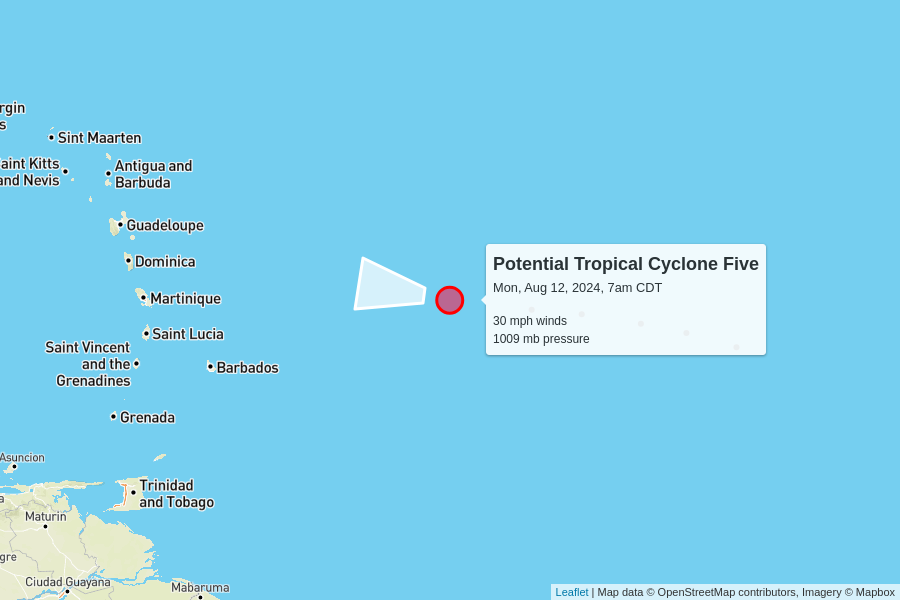
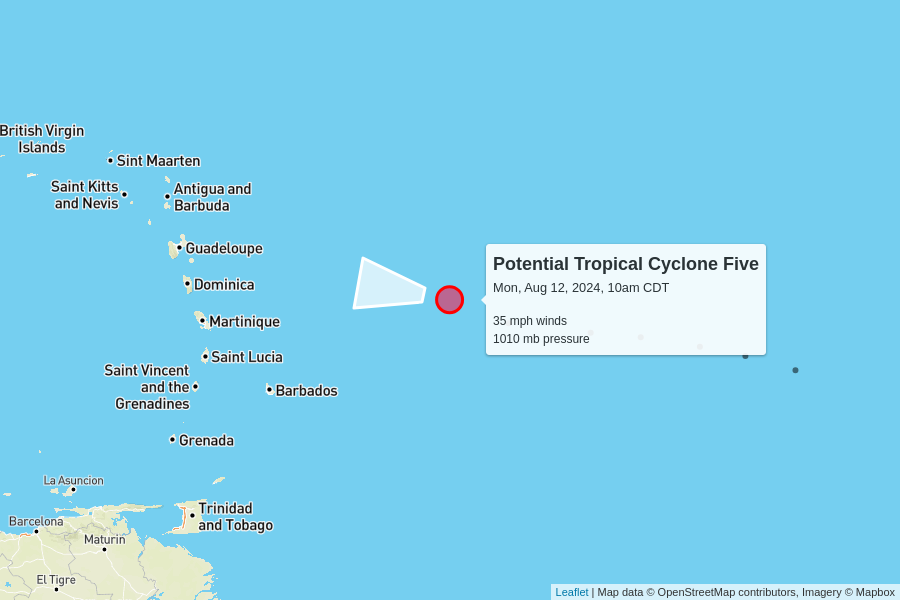
automatic update

diff --git a/docs/index.html b/docs/index.html
@@ -102,7 +102,7 @@
         <td colspan="6" class="storm category-0" >
           <h2>
             Potential Tropical Cyclone Five
-            <p class="updated">last updated <span data-time>2024-08-12T12:00:00.000Z</span></p>
+            <p class="updated">last updated <span data-time>2024-08-12T15:00:00.000Z</span></p>
           </h2>
         </td>
       </tr>
@@ -117,8 +117,8 @@
       </tr>
       <tr>
         <td class="spacer"></td>
-        <td>30 mph<br>0 mph since last update</td>
-        <td>1009 mb<br>0 mb since last update</td>
+        <td>35 mph<br>+5 mph since last update</td>
+        <td>1010 mb<br>+1 mb since last update</td>
         <td>
           26 mph to the west
           <br/>
